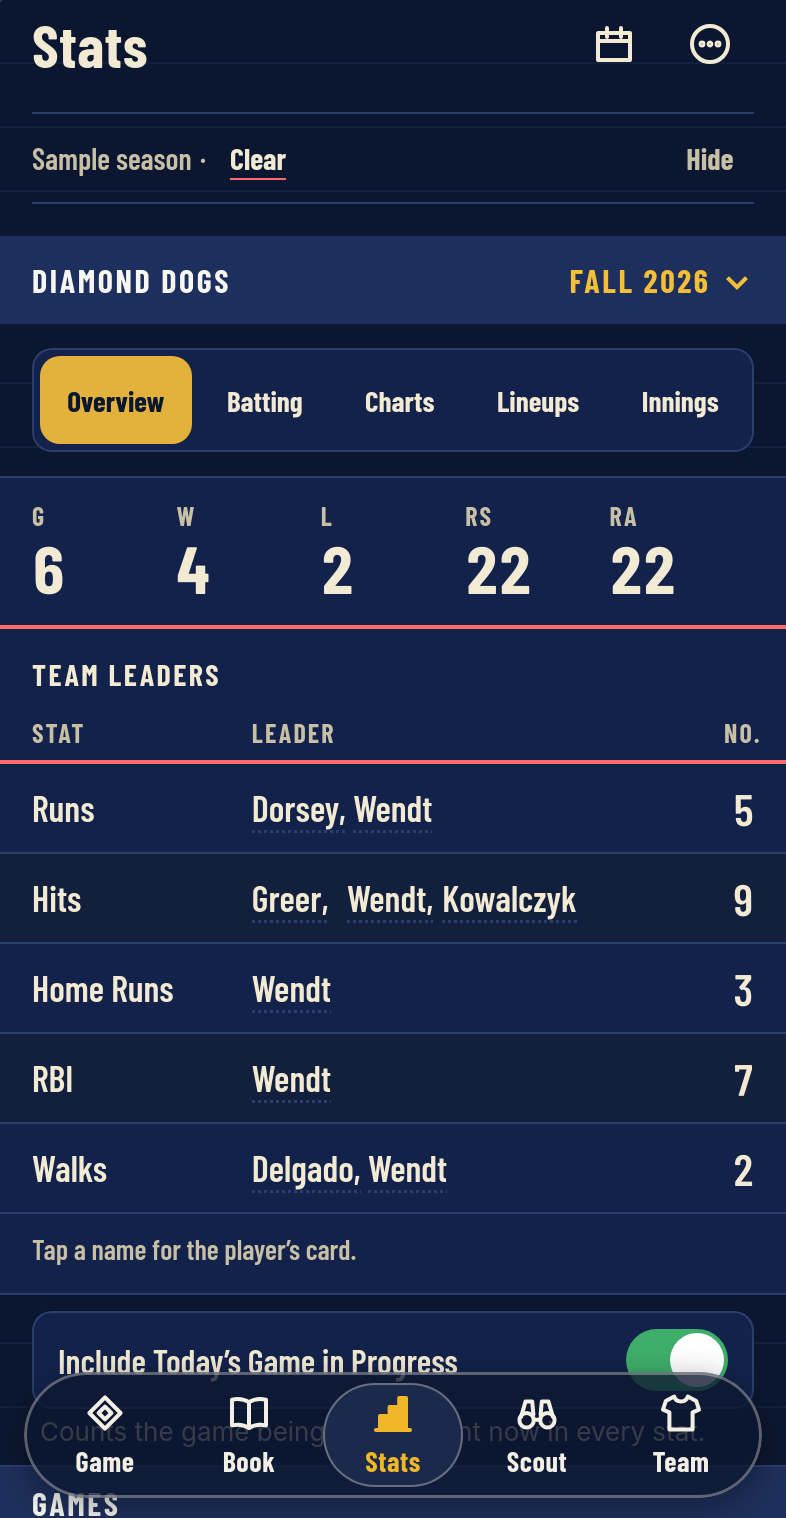
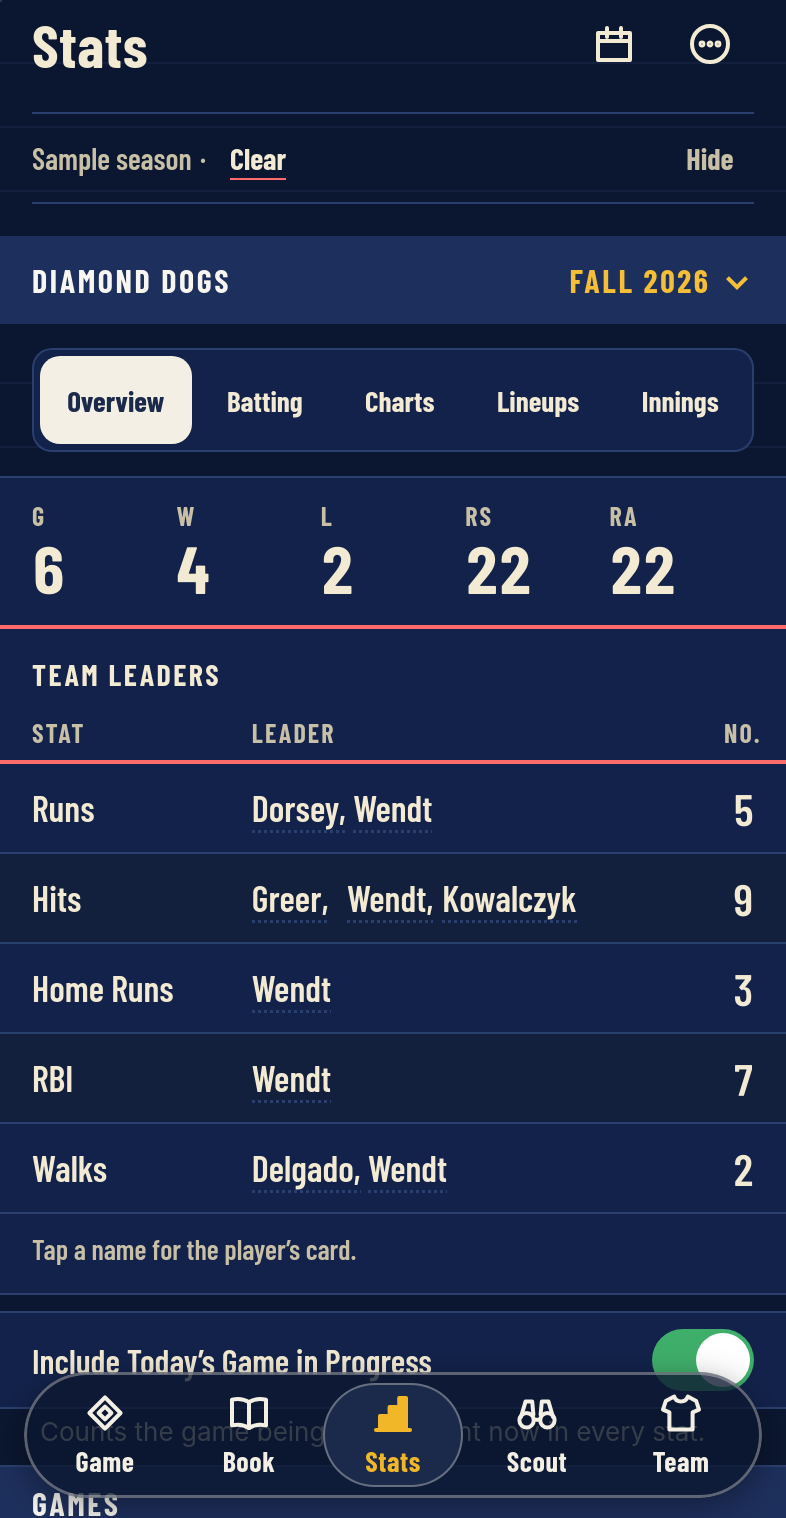
App: one set of paper on every tab, ruled rows, tap shading, last-row clearance
Claude-Session: https://claude.ai/code/session_019GkS5eEiAzmEB3GrHC5aVf

Changed region(s): [[0.0, 0.836, 0.5802, 0.9289], [0.0305, 0.2167, 0.2443, 0.3096], [0.7939, 0.836, 1.0, 0.9289]]

diff --git a/tests/e2e/unify.spec.ts b/tests/e2e/unify.spec.ts
@@ -1,0 +1,136 @@
+import { expect, test, type Page } from '@playwright/test';
+import { IPHONE_16 } from '../helpers/checks.ts';
+import { freshApp, key } from '../helpers/app.ts';
+
+// The unification pass (Steve, Nov 18): every scrolling screen's last row scrolls fully clear of
+// the floating tab bar, lists are ruled rows with no old boxes, and rows highlight instead of pressing.
+
+const TAPPABLE = 'button, a[href], select, summary, [role="radio"], [tabindex="0"]';
+
+async function lastRowClear(page: Page, panel: string): Promise<{ bottom: number; barTop: number; label: string }> {
+  await page.evaluate(() => window.scrollTo(0, document.documentElement.scrollHeight));
+  await page.waitForTimeout(150);
+  return page.evaluate(
+    ({ panel, sel }) => {
+      const root = document.querySelector(panel)!;
+      const shown = [...root.querySelectorAll<HTMLElement>(sel)].filter((e) => {
+        const r = e.getBoundingClientRect();
+        if (!(r.width > 0 && r.height > 0) || getComputedStyle(e).visibility === 'hidden') return false;
+        // Skip what a closed disclosure hides, and what a box of its own scrolls out of sight (a long list inside its own scroller).
+        const shut = e.closest('details:not([open])');
+        if (shut && e.closest('summary')?.parentElement !== shut) return false;
+        for (let p = e.parentElement; p && p !== root; p = p.parentElement) {
+          if (getComputedStyle(p).overflowY !== 'visible') {
+            const q = p.getBoundingClientRect();
+            if (r.top >= q.bottom || r.bottom <= q.top) return false;
+          }
+        }
+        return true;
+      });
+      const last = shown.reduce((a, b) => (b.getBoundingClientRect().bottom > a.getBoundingClientRect().bottom ? b : a));
+      return {
+        bottom: last.getBoundingClientRect().bottom,
+        barTop: document.querySelector('.sk-tabbar')!.getBoundingClientRect().top,
+        label: last.getAttribute('aria-label') || last.textContent!.trim().slice(0, 40),
+      };
+    },
+    { panel, sel: TAPPABLE },
+  );
+}
+
+test.beforeEach(async ({ page }) => {
+  await page.setViewportSize(IPHONE_16);
+  await freshApp(page);
+  await key(page, 'Look Around with Sample Data').click();
+  await expect(page.getByRole('region', { name: 'Scoreboard' })).toBeVisible();
+});
+
+test('every screen’s last row scrolls fully clear of the tab bar', async ({ page }) => {
+  const check = async (where: string, panel: string) => {
+    const m = await lastRowClear(page, panel);
+    expect(m.bottom, `${where}: “${m.label}” ends under the tab bar`).toBeLessThanOrEqual(m.barTop);
+  };
+  for (const tab of ['Game', 'Book', 'Scout', 'Team']) {
+    await page.getByRole('tab', { name: tab }).click();
+    await check(tab, `#tab-${tab.toLowerCase()}`);
+  }
+  await page.getByRole('tab', { name: 'Stats' }).click();
+  for (const section of ['Overview', 'Batting', 'Charts', 'Lineups', 'Innings']) {
+    await page.getByRole('group', { name: 'Stats Sections' }).getByRole('button', { name: section, exact: true }).click();
+    await check(`Stats, ${section}`, '#tab-stats');
+  }
+  // Settings is a sheet over the tab bar: its last row scrolls fully into view.
+  await page.getByRole('tab', { name: 'Game' }).click();
+  await page.getByRole('button', { name: 'Settings' }).first().click();
+  const sheet = page.getByRole('dialog', { name: 'Settings' });
+  await expect(sheet).toBeVisible();
+  const s = await sheet.evaluate((d) => {
+    const scroller = [d, ...d.querySelectorAll<HTMLElement>('*')].find((e) => e.scrollHeight > e.clientHeight + 1 && /auto|scroll/.test(getComputedStyle(e).overflowY))!;
+    scroller.scrollTop = scroller.scrollHeight;
+    const rows = [...d.querySelectorAll<HTMLElement>('button, a[href], select')].filter((e) => {
+      const shut = e.closest('details:not([open])');
+      return e.getBoundingClientRect().height > 0 && !(shut && e.closest('summary')?.parentElement !== shut);
+    });
+    const last = rows.reduce((a, b) => (b.getBoundingClientRect().bottom > a.getBoundingClientRect().bottom ? b : a));
+    return { bottom: last.getBoundingClientRect().bottom, view: Math.min(innerHeight, scroller.getBoundingClientRect().bottom) };
+  });
+  expect(s.bottom).toBeLessThanOrEqual(s.view);
+});
+
+test('Scout is one edge-to-edge sheet of ruled rows, each with the opponent’s patch', async ({ page }) => {
+  await page.getByRole('tab', { name: 'Scout' }).click();
+  const list = page.getByRole('region', { name: 'Opponents' });
+  await expect(list).toBeVisible();
+  const m = await list.evaluate((el) => {
+    const r = el.getBoundingClientRect();
+    const rows = [...el.querySelectorAll<HTMLElement>('.sk-row, .sc-team')];
+    return {
+      left: r.left,
+      right: innerWidth - r.right,
+      rows: rows.length,
+      patches: el.querySelectorAll('.sc-team svg, .sc-team .tm-patch, .sc-team [class*="patch"]').length,
+      boxed: rows.filter((x) => parseFloat(getComputedStyle(x).borderTopWidth) > 0 || parseFloat(getComputedStyle(x).borderTopLeftRadius) > 0).length,
+      font: getComputedStyle(el.querySelector('.sc-team, .sk-row')!).fontFamily,
+    };
+  });
+  expect(m.left).toBe(0);
+  expect(m.right).toBe(0);
+  expect(m.rows).toBeGreaterThan(0);
+  expect(m.patches).toBeGreaterThan(0);
+  expect(m.boxed).toBe(0);
+  expect(m.font).toMatch(/Barlow/);
+});
+
+test('no old-look boxes on the tabs: paper runs edge to edge and rows don’t press like keys', async ({ page }) => {
+  const boxes = async () =>
+    page.evaluate(() =>
+      [...document.querySelectorAll<HTMLElement>('.sk-panel:not([hidden]) :is(.sk-card, .sk-details, .st-table-wrap, .sk-stack > .sk-row, .sk-stack > .sk-row-group > .sk-row)')]
+        .filter((e) => e.offsetParent && e.getBoundingClientRect().width > 0)
+        .filter((e) => {
+          const r = e.getBoundingClientRect();
+          const cs = getComputedStyle(e);
+          return r.left > 0.5 || innerWidth - r.right > 0.5 || parseFloat(cs.borderTopLeftRadius) > 0 || parseFloat(cs.borderLeftWidth) > 0;
+        })
+        .map((e) => e.className),
+    );
+  for (const tab of ['Book', 'Scout', 'Team']) {
+    await page.getByRole('tab', { name: tab }).click();
+    expect(await boxes(), tab).toEqual([]);
+  }
+  await page.getByRole('tab', { name: 'Stats' }).click();
+  for (const section of ['Overview', 'Batting', 'Charts', 'Lineups', 'Innings']) {
+    await page.getByRole('group', { name: 'Stats Sections' }).getByRole('button', { name: section, exact: true }).click();
+    expect(await boxes(), `Stats, ${section}`).toEqual([]);
+  }
+  // A list row highlights; it never drops 2 points like a lipped key.
+  await page.getByRole('tab', { name: 'Team' }).click();
+  const row = page.locator('.tm-player').first();
+  const box = (await row.boundingBox())!;
+  const before = await row.evaluate((e) => getComputedStyle(e).backgroundColor);
+  await page.mouse.move(box.x + box.width / 2, box.y + box.height / 2);
+  await page.mouse.down();
+  const during = await row.evaluate((e) => ({ bg: getComputedStyle(e).backgroundColor, t: getComputedStyle(e).transform }));
+  await page.mouse.up();
+  expect(during.bg).not.toBe(before);
+  expect(during.t === 'none' || during.t === 'matrix(1, 0, 0, 1, 0, 0)').toBe(true);
+});

diff --git a/src/styles/app.css b/src/styles/app.css
@@ -1986,3 +1986,109 @@ select.sk-input {
 .pc-section > p {
   font-size: calc(16 * var(--u));
 }
+
+
+/* ---- Unification (Steve, Nov 18) ---------------------------------------------------------
+   On the tabs, paper surfaces run edge to edge with ruled edges instead of floating in rounded,
+   bordered cards; lists are ruled rows; controls keep their 16-point margins. */
+.layout-phone .sk-panel .sk-card,
+.layout-phone .sk-panel .sk-details,
+.layout-phone .sk-panel .st-table-wrap {
+  margin-inline: calc(-1 * var(--gutter));
+  max-width: none;
+  border-inline: 0;
+  border-radius: 0;
+}
+
+.layout-phone .sk-panel .sk-card {
+  padding-inline: var(--gutter);
+}
+
+.layout-phone .sk-panel .sk-details > summary,
+.layout-phone .sk-panel .sk-details > p,
+.layout-phone .sk-panel .sk-details > ul {
+  margin-inline: 0;
+  padding-inline: var(--gutter);
+}
+
+.layout-phone .sk-panel .st-table .st-name {
+  padding-left: var(--gutter);
+}
+
+/* Ruled rows: one sheet, a hairline between rows, no boxes. */
+.sk-ruled {
+  margin-inline: calc(-1 * var(--gutter));
+  background-color: var(--card);
+  border-block: 1px solid var(--card-edge);
+}
+
+.sk-ruled > .sk-row,
+.sk-ruled > .sk-row-group > .sk-row {
+  width: 100%;
+  min-height: 52px;
+  margin: 0;
+  padding: 8px var(--gutter);
+  border: 0;
+  border-bottom: 1px solid var(--card-edge);
+  border-radius: 0;
+  background: none;
+}
+
+.sk-ruled > .tm-sheet-foot {
+  padding-top: 8px;
+}
+
+/* A tapped row highlights briefly, like iOS; only lipped keys get the 2-point press. */
+button.sk-row,
+.tm-player,
+.sp-item {
+  -webkit-tap-highlight-color: transparent;
+}
+
+button.sk-row:active,
+.sk-ruled > .sk-row:active,
+.tm-sheet .tm-player:active,
+.sp-item:active {
+  background-color: var(--row-press);
+  transform: none;
+}
+
+/* The closed menu is ScoreKept's: a paper field with a chevron, never the system's gray button. */
+.sk-select-box {
+  position: relative;
+  display: block;
+}
+
+select.sk-input {
+  -webkit-appearance: none;
+  appearance: none;
+  padding-right: 40px;
+  background-color: var(--card);
+}
+
+.sk-select-chev {
+  position: absolute;
+  top: 50%;
+  right: 14px;
+  transform: translateY(-60%);
+  color: var(--ink);
+  font-family: var(--font-board);
+  font-size: calc(20 * var(--u));
+  pointer-events: none;
+}
+
+/* The Scout clipboard's rows are all in the athletic face. */
+.sc-team {
+  font-family: var(--font-board);
+}
+
+/* A lone row on a tab (Stats' Include Today's Game in Progress) is a ruled strip of paper, not a box. */
+.layout-phone .sk-panel .sk-stack > .sk-row,
+.layout-phone .sk-panel .sk-stack > .sk-row-group > .sk-row {
+  width: calc(100% + 2 * var(--gutter));
+  max-width: none;
+  margin-inline: calc(-1 * var(--gutter));
+  padding-inline: var(--gutter);
+  border-inline: 0;
+  border-radius: 0;
+}

diff --git a/src/ui/team/team.ts b/src/ui/team/team.ts
@@ -128,17 +128,21 @@ export class TeamScreen {
       card,
       h('section', { class: 'tm-sheet', 'aria-labelledby': 'tm-roster' }, h('h2', { id: 'tm-roster', class: 'sk-visually-hidden' }, 'Roster'), sheetHead, ...roster.map(row), h('div', { class: 'tm-sheet-foot' }, addPlayer)),
       h('section', { class: 'tm-sheet', 'aria-labelledby': 'tm-reserves' }, h('h2', { id: 'tm-reserves', class: 'tm-sheet-head tm-sheet-title' }, 'Reserves'), ...reserves.map(reserveRow), h('div', { class: 'tm-sheet-foot' }, addReserve)),
+      // The rest of the roster card: ruled rows on the same kind of sheet, no floating cards (Nov 18).
       h(
         'section',
-        { class: 'tm-section', 'aria-labelledby': 'tm-tools' },
-        h('h2', { id: 'tm-tools', class: 'sk-label' }, 'Team Tools'),
-        h('div', { class: 'sk-stack' }, linkRow('Depth Chart', () => openDepthChart(app)), linkRow('Dues', () => openDues(app, () => this.update()), duesDetail(app))),
+        { class: 'tm-sheet sk-ruled', 'aria-labelledby': 'tm-tools' },
+        h('h2', { id: 'tm-tools', class: 'tm-sheet-head tm-sheet-title' }, 'Team Tools'),
+        linkRow('Depth Chart', () => openDepthChart(app)),
+        linkRow('Dues', () => openDues(app, () => this.update()), duesDetail(app)),
       ),
       h(
         'section',
-        { class: 'tm-section', 'aria-labelledby': 'tm-season' },
-        h('h2', { id: 'tm-season', class: 'sk-label' }, 'Season and Schedule'),
-        h('div', { class: 'sk-stack' }, seasonBtn, ...schedule.map((e) => scheduleRow(app, e)), addGame, newSeason),
+        { class: 'tm-sheet sk-ruled', 'aria-labelledby': 'tm-season' },
+        h('h2', { id: 'tm-season', class: 'tm-sheet-head tm-sheet-title' }, 'Season and Schedule'),
+        seasonBtn,
+        ...schedule.map((e) => scheduleRow(app, e)),
+        h('div', { class: 'tm-sheet-foot sk-stack' }, addGame, newSeason),
       ),
     );
   }

diff --git a/src/content/help.ts b/src/content/help.ts
@@ -148,7 +148,7 @@ export const HELP: HelpSection[] = [
     paragraphs: [
       'Stats is the back of your team’s baseball card. Tap the season in the navy band to pick another, or All Seasons. The calendar at the top opens the schedule, and ••• holds New Season. Overview has the stat line (G, W, L, RS for runs scored, RA for runs allowed), the team leaders (tap a name for the player’s card), and every game with View and Delete. Batting has four tables; tap a column’s name to sort by it. Charts shows where every ball went; tap near one to see the play, move it, or View Game.',
       'Tap any name for the player card: season numbers, the last three games, recent form, positions, and a spray chart.',
-      'Scout lists every team you’ve played. Tap one for its clipboard: where they hit the ball, as a team and hitter by hitter, with the coach’s read written in by hand. On the chart a hit is a dot with one ring per base (four for a home run), an out is a red circle, and an error is an E.',
+      'Scout lists every team you’ve played, each with its patch, on one clipboard sheet. Tap one for its clipboard: where they hit the ball, as a team and hitter by hitter, with the coach’s read written in by hand. On the chart a hit is a dot with one ring per base (four for a home run), an out is a red circle, and an error is an E.',
     ],
   },
   {

diff --git a/src/ui/rules.ts b/src/ui/rules.ts
@@ -6,7 +6,7 @@
 import type { App } from '../app/app.ts';
 import { allRuleSets, cloneRules, matchRuleSet, ruleSetById, saveRuleSet, type HrRule, type Rules } from '../engine/rules.ts';
 import { newId } from '../store/model.ts';
-import { selectField, switchRow, textField } from './controls.ts';
+import { selectBox, selectField, switchRow, textField } from './controls.ts';
 import { h, setText } from './dom.ts';
 
 const TIME_LIMITS = [0, 45, 50, 55, 60, 65, 70, 75, 80, 90];
@@ -178,7 +178,7 @@ export function rulesEditor(app: App, opts: RulesEditorOptions): HTMLElement {
   return h(
     'div',
     { class: 'sk-stack rl-editor' },
-    h('div', { class: 'sk-field' }, h('label', { for: id, class: 'sk-field-label' }, 'Rule Set'), setSelect),
+    h('div', { class: 'sk-field' }, h('label', { for: id, class: 'sk-field-label' }, 'Rule Set'), selectBox(setSelect)),
     h('p', { class: 'sk-row-note' }, 'Pick your league’s rules in one tap. Any rule below can still be changed for this game.'),
     fields,
     textField('New Rule Set Name', '', (v) => (saveName = v), { autocapitalize: 'words', placeholder: 'Summer League' }),

diff --git a/src/ui/stats/stats.ts b/src/ui/stats/stats.ts
@@ -14,7 +14,7 @@ import { stateOf, resultFor } from '../../stats/games.ts';
 import { leaders, teamRecord } from '../../stats/team.ts';
 import type { SavedGame } from '../../store/model.ts';
 import { openBackup } from '../backup.ts';
-import { segmented, switchRow } from '../controls.ts';
+import { segmented, selectBox, switchRow } from '../controls.ts';
 import { h } from '../dom.ts';
 import { icon } from '../icons.ts';
 import { goTo } from '../nav.ts';
@@ -329,7 +329,7 @@ export class StatsScreen {
       'div',
       { class: 'sk-stack' },
       views,
-      this.view === 'fielding' ? '' : h('div', { class: 'sk-field st-min' }, h('label', { for: minId, class: 'sk-field-label' }, 'Plate Appearances'), min),
+      this.view === 'fielding' ? '' : h('div', { class: 'sk-field st-min' }, h('label', { for: minId, class: 'sk-field-label' }, 'Plate Appearances'), selectBox(min)),
       table,
       h('details', { class: 'sk-details' }, h('summary', {}, 'What the Stats Mean'), ...help.map((t) => h('p', {}, t)), h('p', {}, 'Tap a column’s name to sort by it; tap again to flip it. Team leaders are underlined.')),
     );

diff --git a/src/ui/controls.ts b/src/ui/controls.ts
@@ -66,7 +66,13 @@ export function selectField(label: string, options: { value: string; label: stri
   const id = `f-${Math.random().toString(36).slice(2, 8)}`;
   const select = h('select', { id, class: 'sk-input' }, ...options.map((o) => h('option', { value: o.value, selected: o.value === value }, o.label)));
   select.addEventListener('change', () => onChange(select.value));
-  return h('div', { class: 'sk-field' }, h('label', { for: id, class: 'sk-field-label' }, label), select);
+  // The closed menu is ScoreKept's (no gray system button); tapping it opens the iPhone's own list.
+  return h('div', { class: 'sk-field sk-select' }, h('label', { for: id, class: 'sk-field-label' }, label), selectBox(select));
+}
+
+/** A closed menu in ScoreKept's paper field with its chevron; tapping it opens the iPhone's own list. */
+export function selectBox(select: HTMLSelectElement): HTMLElement {
+  return h('span', { class: 'sk-select-box' }, select, h('span', { class: 'sk-select-chev', 'aria-hidden': 'true' }, '⌄'));
 }
 
 /** "Sat, Oct 17"; the year only when it isn't this year (CLAUDE.md, Words). */

diff --git a/src/ui/book/editplay.ts b/src/ui/book/editplay.ts
@@ -14,6 +14,7 @@ import { describePlay, POSITION_NAMES } from '../../engine/words.ts';
 import { usesField } from '../../game/field.ts';
 import type { SavedGame } from '../../store/model.ts';
 import { announce } from '../announce.ts';
+import { selectBox } from '../controls.ts';
 import { h, setAttr, setDimmed, setText, svg } from '../dom.ts';
 import { drawField, pickSpot } from '../game/fieldsheet.ts';
 import { openSheet } from '../sheet.ts';
@@ -221,7 +222,7 @@ export function openEditPlay(app: App, gameId: string, eventIndex: number): void
         refresh();
       });
       const label = k === 'B' ? `${name(player)} (batter)` : `${name(player)} (on ${['', 'first', 'second', 'third'][k]})`;
-      const row = h('div', { class: 'sk-field ep-runner' }, h('label', { for: id, class: 'sk-field-label' }, label), select);
+      const row = h('div', { class: 'sk-field ep-runner' }, h('label', { for: id, class: 'sk-field-label' }, label), selectBox(select));
       const run = p.play.runs.find((r) => r.from === k);
       if (run) {
         const rid = `ep-rbi-${k}`;

diff --git a/src/content/whats-new.ts b/src/content/whats-new.ts
@@ -10,6 +10,11 @@ export interface WhatsNewEntry {
 
 export const WHATS_NEW: WhatsNewEntry[] = [
   {
+    version: '2026.11.18-1',
+    headline: 'One Set of Paper',
+    lines: ['The last of the old boxes are swept off the field. Team Tools, the schedule, the stat tables, the spray charts, and the Book’s plays and signature now run edge to edge like the rest of the paper, and Scout’s list of opponents is one clipboard sheet with each team’s patch. Tap a row and it shades for a moment, the way your iPhone’s own lists do, and the last row on every screen clears the tab bar.'],
+  },
+  {
     version: '2026.11.17-15',
     headline: 'The Visitors Get Colors Too',
     lines: ['Every team you play is saved now, with a pennant of its own. Pick their colors in Game Settings, Opponent Colors, and they fly on the recap and in Scout. Past opponents start in plain silver and navy until you dress them up.'],

diff --git a/src/styles/tokens.css b/src/styles/tokens.css
@@ -142,6 +142,8 @@
   --card-edge: #d3c7a6;
   /* The printed band across a card back or roster card (Steve, Nov 16): navy, cream words, gold season. */
   --card-band: var(--sk-navy-anchor);
+  /* A tapped list row, iOS-style (Nov 18): a brief darker paper. */
+  --row-press: var(--sk-cream-ruled);
   --card-band-ink: var(--sk-ink-light);
   --card-band-gold: var(--sk-gold-runner);
   /* Roster number blocks: navy with cream numbers by day, cream with navy numbers by night (never gold). */
@@ -265,6 +267,7 @@
     --card-edge: #2b3f6e;
     /* 7.6:1 for the gold season on it (gold ink), 12:1 for cream. */
     --card-band: #1d2f5c;
+    --row-press: #22386b;
     --card-band-gold: var(--sk-gold-ink);
     --roster-num-bg: var(--sk-cream-canvas);
     --roster-num-ink: var(--sk-navy-anchor);

diff --git a/src/ui/scout/scout.ts b/src/ui/scout/scout.ts
@@ -97,7 +97,8 @@ export class ScoutScreen {
     this.el.replaceChildren(
       header,
       h('p', { class: 'sk-row-note' }, 'Where every opponent hits the ball. Scout fills in from games kept in Scorekeeper Mode with Hit Location on.'),
-      rows.length ? h('div', { class: 'sk-stack' }, ...rows) : h('section', { class: 'sk-card sk-soon' }, h('p', {}, 'No opponents yet. Every team you play shows up here.')),
+      // The clipboard's front sheet (Nov 18): every opponent a ruled row with its patch.
+      rows.length ? h('section', { class: 'sc-list sk-ruled', 'aria-label': 'Opponents' }, ...rows) : h('section', { class: 'sk-card sk-soon' }, h('p', {}, 'No opponents yet. Every team you play shows up here.')),
     );
   }
 

diff --git a/tests/e2e/team.spec.ts b/tests/e2e/team.spec.ts
@@ -179,7 +179,7 @@ test('New Season suggests the next one and refuses a duplicate', async ({ page }
   await expect(sheet).toHaveCount(0);
   await key(page, 'New Season').click();
   const again = page.getByRole('dialog', { name: 'New Season' });
-  const current = await page.locator('.tm-section').last().locator('.sk-row-label').first().textContent();
+  const current = await page.getByRole('region', { name: 'Season and Schedule' }).locator('.sk-row-label').first().textContent();
   const [term, year] = current!.split(' ');
   await again.getByRole('button', { name: term!, exact: true }).click();
   await again.getByLabel('Year').selectOption(year!);
